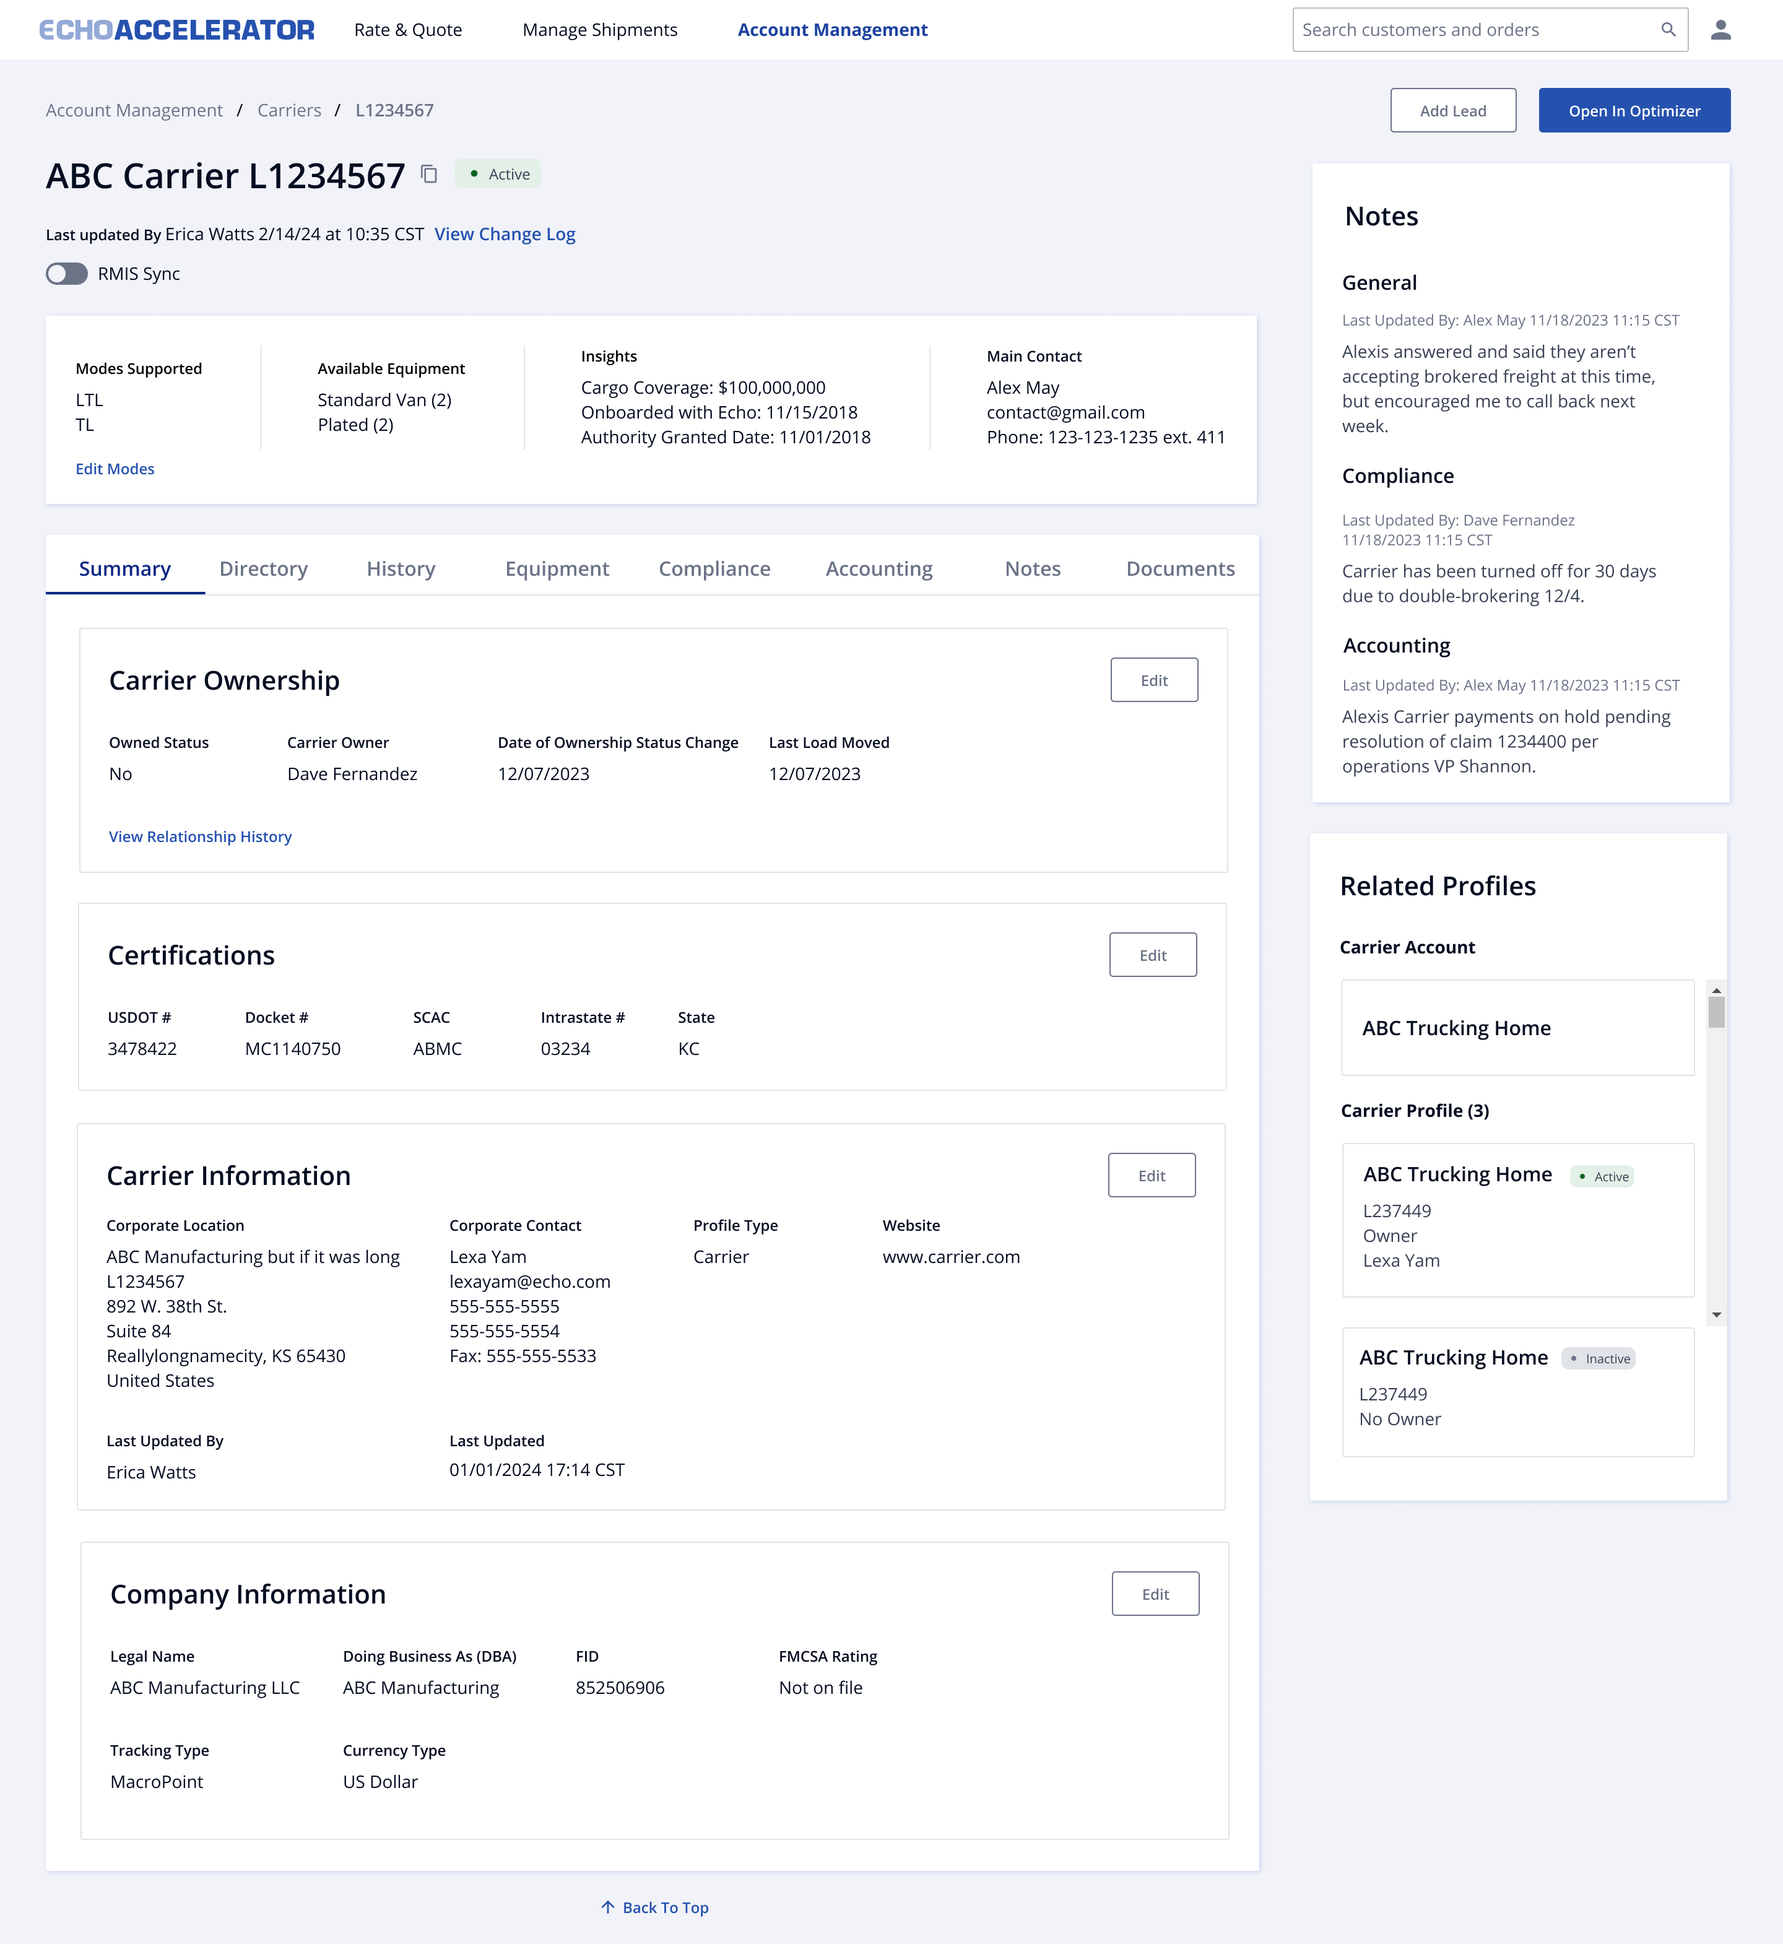
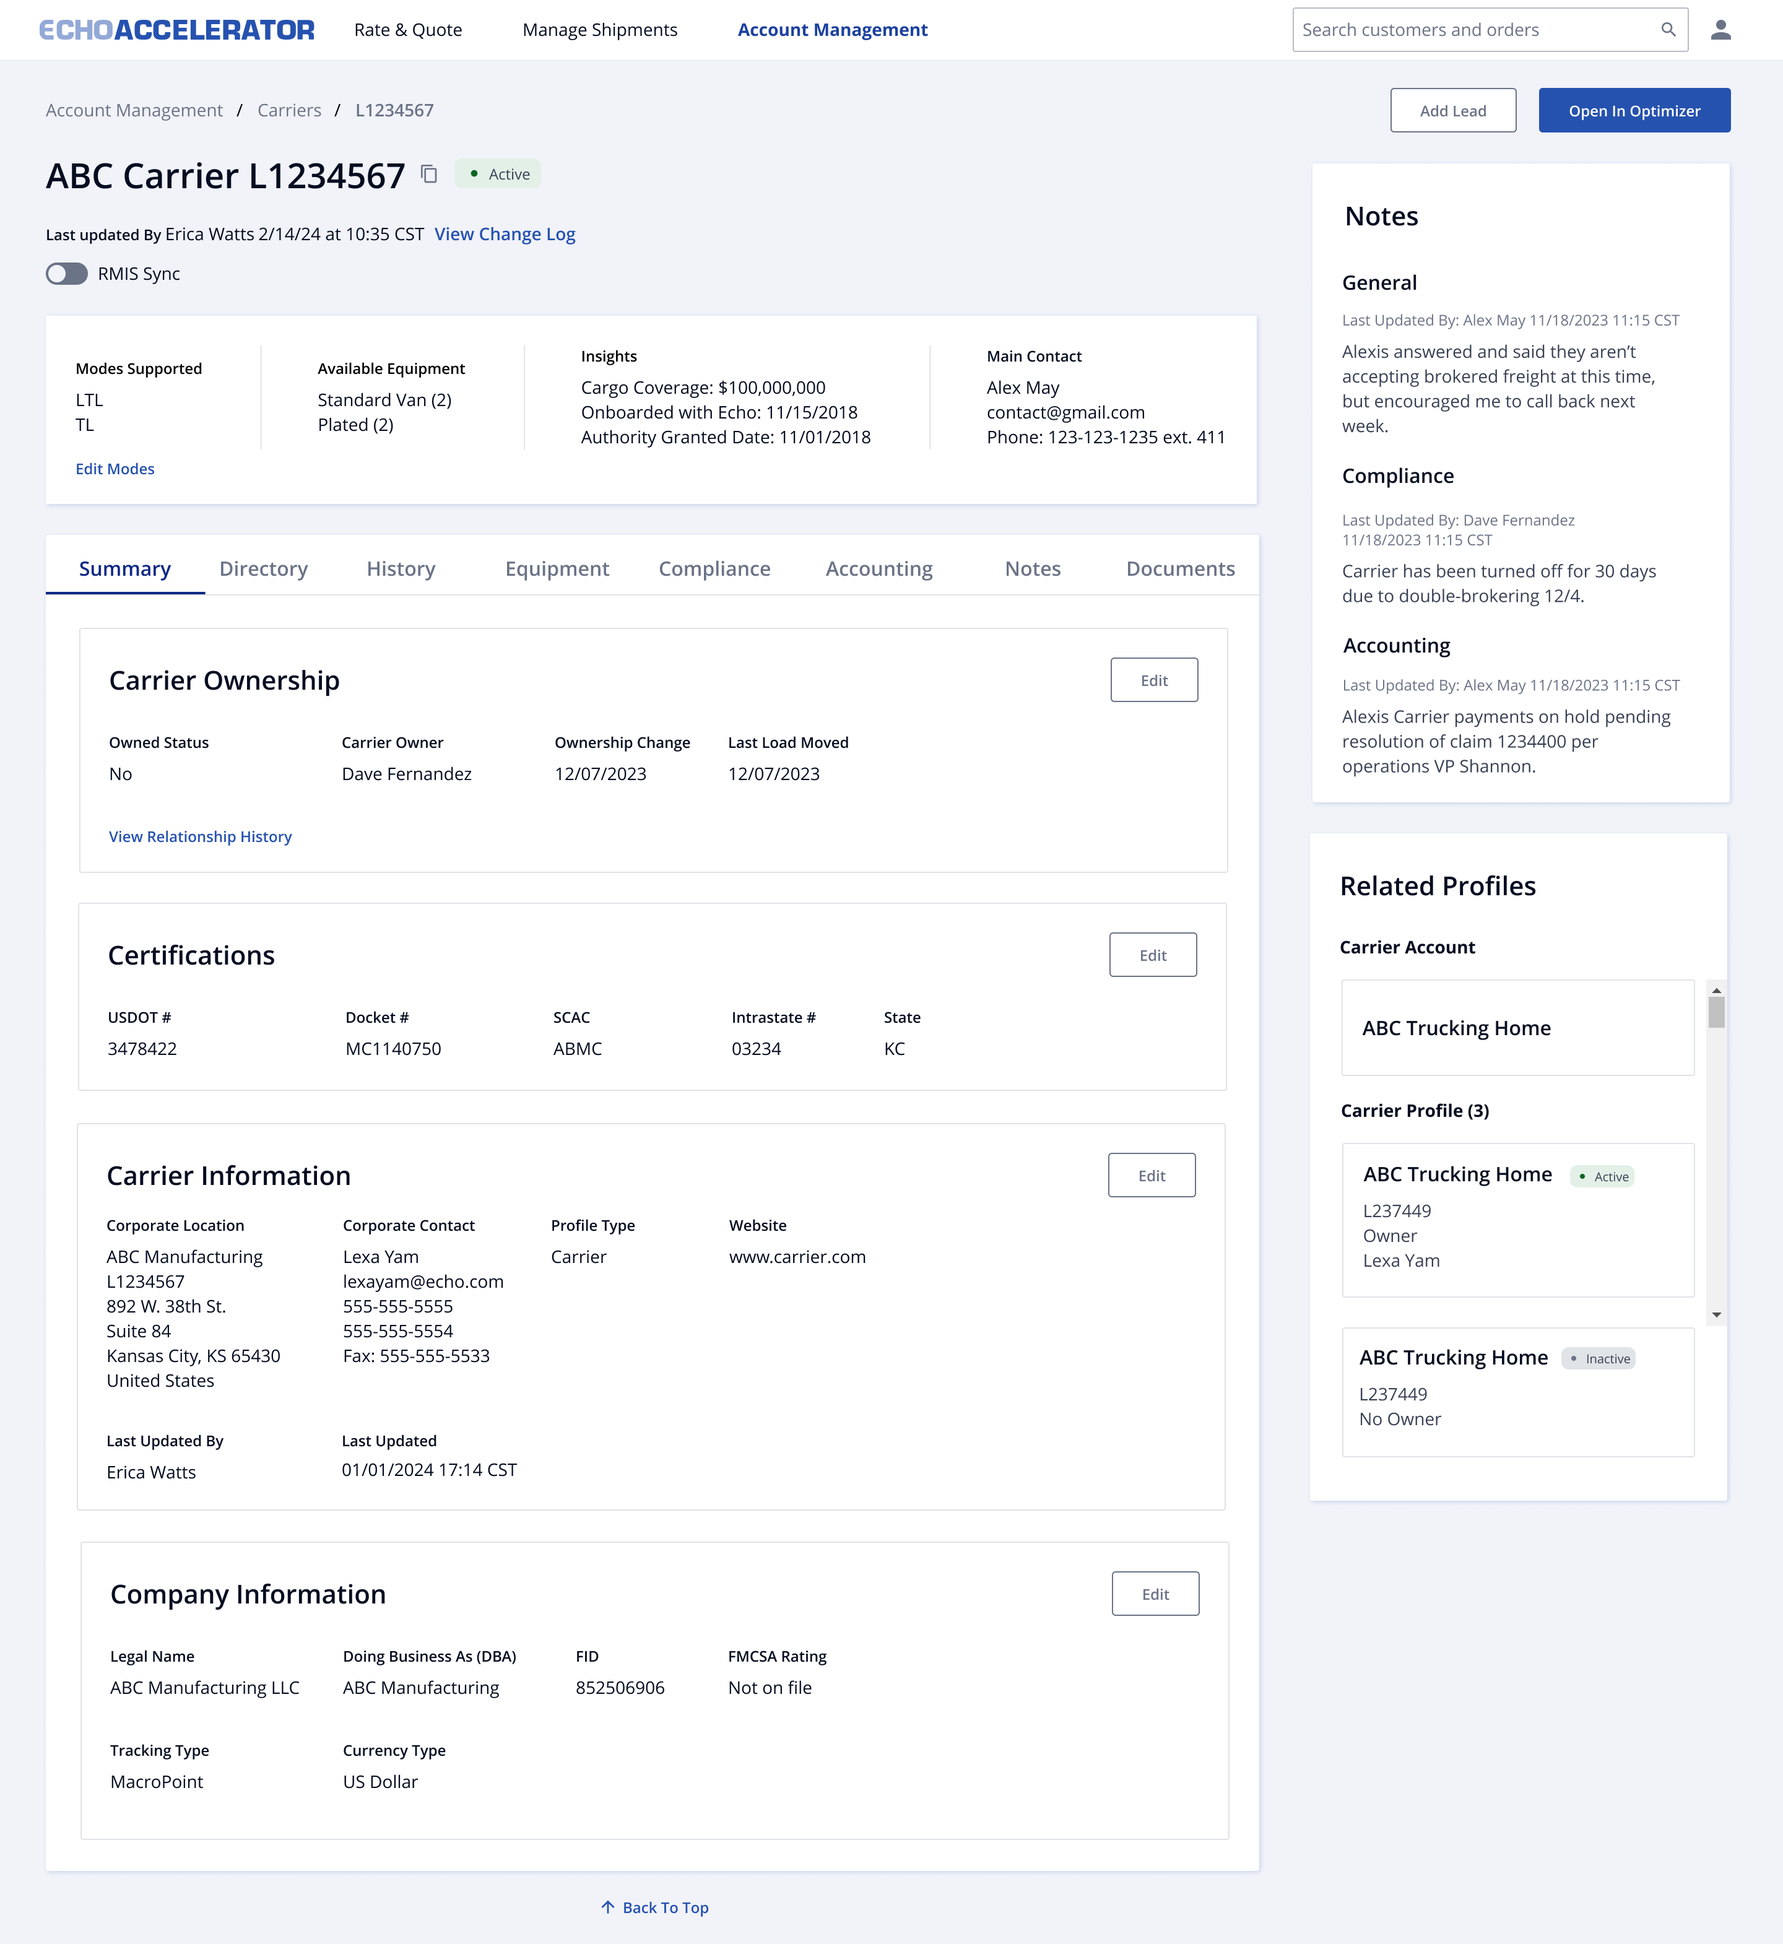
Refine Echo Profile card: restore nav, fix alignment, simplify content
- Restore the ECHOACCELERATOR nav bar with its own white background and
  elevation so it reads as chrome above the grey page, not the same
  surface as the white cards (a fade-to-transparent effect borrowed from
  the tabs row was making the white bar visibly fade into the background).
- Let the card size itself to its actual content instead of a fixed pixel
  height: both tab panels stack in the same grid cell, sized to the
  taller one, and anything past the frame's own height is cropped by its
  existing overflow:hidden rather than force-fit with hand-tuned padding.
- Fix field-value alignment: a field whose label wraps to 2 lines no
  longer drops its value below the rest of the row, and grid columns now
  size to their own content with a fixed gap instead of splitting the
  row into equal shares (which left uneven-looking gaps between short
  and long fields).
- Simplify Compliance and Summary tab content to what fits cleanly:
  drop Carrier Status's second row, Insurance's dollar limits, and
  Certifications' State field; rename the ownership-date field to match
  the current design ("Ownership Change").
- Update Compliance Management.png and Summary Dashboard.png reference
  screenshots.

diff --git a/index.html b/index.html
@@ -959,6 +959,12 @@
                     <div class="chapter-media">
                         <div class="chapter-media-inner" role="img" aria-label="Echo Global Logistics Project">
                             <div class="carrier-app">
+                                <div class="app-topbar">
+                                    <span class="brand">ECHO<span>ACCELERATOR</span></span>
+                                    <span>Rate &amp; Quote</span>
+                                    <span>Manage Shipments</span>
+                                    <span class="active-link">Account Management</span>
+                                </div>
                                 <div class="app-breadcrumb">Account Management / Carriers / L1234567</div>
                                 <div class="app-title-row">
                                     <h4>ABC Carrier L1234567</h4>
@@ -977,34 +983,41 @@
                                 </div>
                                 <div class="app-card">
                                     <div class="app-card-panel summary visible">
-                                        <h5>Carrier Ownership</h5>
-                                        <div class="app-field-grid">
-                                            <div class="app-field"><label>Owned Status</label><div>No</div></div>
-                                            <div class="app-field"><label>Carrier Owner</label><div>Dave Fernandez</div></div>
-                                            <div class="app-field"><label>Status Change</label><div>12/07/2023</div></div>
-                                            <div class="app-field"><label>Last Load Moved</label><div>12/07/2023</div></div>
-                                            <div class="app-field"><label>Modes Supported</label><div>LTL, TL</div></div>
-                                            <div class="app-field"><label>Equipment</label><div>Standard Van (2)</div></div>
+                                        <div class="field-card">
+                                            <h5>Carrier Ownership</h5>
+                                            <div class="app-field-grid four">
+                                                <div class="app-field"><label>Owned Status</label><div>No</div></div>
+                                                <div class="app-field"><label>Carrier Owner</label><div>Dave Fernandez</div></div>
+                                                <div class="app-field"><label>Ownership Change</label><div>12/07/2023</div></div>
+                                                <div class="app-field"><label>Last Load Moved</label><div>12/07/2023</div></div>
+                                            </div>
+                                        </div>
+                                        <div class="field-card">
+                                            <h5>Certifications</h5>
+                                            <div class="app-field-grid four">
+                                                <div class="app-field"><label>USDOT #</label><div>3478422</div></div>
+                                                <div class="app-field"><label>Docket #</label><div>MC1140750</div></div>
+                                                <div class="app-field"><label>SCAC</label><div>ABMC</div></div>
+                                                <div class="app-field"><label>Intrastate #</label><div>03234</div></div>
+                                            </div>
                                         </div>
                                     </div>
                                     <div class="app-card-panel compliance">
-                                        <h5>Carrier Status</h5>
-                                        <div class="app-field-grid three">
-                                            <div class="app-field"><label>Compliance Status</label><div>Active</div></div>
-                                            <div class="app-field"><label>Status Last Change</label><div>11/21/2023</div></div>
-                                            <div class="app-field"><label>Last Update By</label><div>Erica Watts</div></div>
-                                            <div class="app-field"><label>Opt Out of Rules</label><div>Yes</div></div>
-                                            <div class="app-field"><label>Hazmat</label><div>Approved: Yes</div></div>
-                                            <div class="app-field"><label>Targeted Commodity</label><div>Yes</div></div>
+                                        <div class="field-card">
+                                            <h5>Carrier Status</h5>
+                                            <div class="app-field-grid three">
+                                                <div class="app-field"><label>Compliance Status</label><div>Active</div></div>
+                                                <div class="app-field"><label>Status Last Change</label><div>11/21/2023</div></div>
+                                                <div class="app-field"><label>Last Update By</label><div>Erica Watts</div></div>
+                                            </div>
                                         </div>
-                                        <h5 class="second">Insurance</h5>
-                                        <div class="app-field-grid three">
-                                            <div class="app-field"><label>Auto</label><div>Active</div></div>
-                                            <div class="app-field"><label>Liability</label><div>Active</div></div>
-                                            <div class="app-field"><label>Cargo</label><div>Active</div></div>
-                                            <div class="app-field"><label>Auto Limit</label><div>$250,000,000</div></div>
-                                            <div class="app-field"><label>Liability Limit</label><div>$250,000,000</div></div>
-                                            <div class="app-field"><label>Cargo Limit</label><div>$250,000,000</div></div>
+                                        <div class="field-card">
+                                            <h5>Insurance</h5>
+                                            <div class="app-field-grid three">
+                                                <div class="app-field"><label>Auto</label><div>Active</div></div>
+                                                <div class="app-field"><label>Liability</label><div>Active</div></div>
+                                                <div class="app-field"><label>Cargo</label><div>Active</div></div>
+                                            </div>
                                         </div>
                                     </div>
                                 </div>

diff --git a/css/live-thumbnails.css b/css/live-thumbnails.css
@@ -147,6 +147,7 @@
     aspect-ratio: auto;
     background: #ffffff;
     display: block;
+    container: tabslide / inline-size;
 }
 
 .carrier-app {
@@ -154,8 +155,38 @@
     background: #ffffff;
 }
 
+.app-topbar {
+    display: flex;
+    align-items: center;
+    gap: 18px;
+    padding: 7px 14px;
+    background: #ffffff;
+    border-bottom: 1px solid #e3e7ec;
+    /* elevation so the white bar reads as chrome above the page, not the same surface as the white cards below it */
+    box-shadow: 0 2px 5px rgba(15, 23, 42, 0.1);
+    font-size: 11px;
+    font-weight: 700;
+    color: #b7bcc4;
+    /* hard clip, not a fade: a fade on a solid white bar just fades white into the grey page behind it */
+    overflow: hidden;
+}
+
+.app-topbar span {
+    white-space: nowrap;
+    flex: 0 0 auto;
+}
+
+.app-topbar .brand {
+    color: #1a1a1a;
+    font-weight: 800;
+    margin-right: 4px;
+}
+
+.app-topbar .brand span { color: #2f6fed; }
+.app-topbar .active-link { color: #2f6fed; }
+
 .app-breadcrumb {
-    padding: 16px 14px 0;
+    padding: 10px 14px 6px;
     font-size: 10px;
     color: #9aa1a8;
 }
@@ -164,7 +195,7 @@
     display: flex;
     align-items: center;
     gap: 8px;
-    padding: 4px 14px 12px;
+    padding: 0 14px 6px;
 }
 
 .app-title-row h4 {
@@ -216,7 +247,7 @@
     font-size: 12px;
     font-weight: 600;
     color: #9aa1a8;
-    padding: 10px 0;
+    padding: 7px 0;
     transition: color 0.4s ease;
     white-space: nowrap;
 }
@@ -235,24 +266,33 @@
     transition: transform 0.5s cubic-bezier(0.2, 0.8, 0.2, 1), width 0.5s cubic-bezier(0.2, 0.8, 0.2, 1);
 }
 
+/* The card's height comes from its content, not a hand-picked pixel value: both panels stack
+   in the same grid cell (sized to the taller one), so the card is never force-fit or stretched.
+   Anything past the frame's own fixed height is cropped by chapter-media-inner's overflow:hidden
+   below, a clean "peek" of the next card rather than a cramped layout that fits everything. */
 .app-card {
     margin: 14px;
-    border: 1px solid #eef0f2;
-    border-radius: 8px;
-    padding: 16px;
-    position: relative;
-    height: 275px;
+    display: grid;
 }
 
 .app-card-panel {
-    position: absolute;
-    inset: 14px;
+    grid-area: 1 / 1;
+    display: flex;
+    flex-direction: column;
+    gap: 16px;
     opacity: 0;
     transition: opacity 0.4s ease;
 }
 
 .app-card-panel.visible {
     opacity: 1;
+}
+
+.field-card {
+    background: #ffffff;
+    border: 1px solid #eef0f2;
+    border-radius: 8px;
+    padding: 16px 18px;
 }
 
 .app-card-panel h5 {
@@ -262,14 +302,29 @@
     margin: 0 0 12px;
 }
 
+/* Columns size to their own content instead of splitting the row into equal shares. Equal
+   columns left uneven-looking gaps: a short value like "SCAC" stranded a lot of empty column
+   space before the next field, while a long one like "Intrastate #" left almost none, even
+   though the columns themselves were uniform. A fixed gap between content-sized columns reads
+   as evenly spaced regardless of how long each field's own label or value happens to be. */
 .app-field-grid {
     display: grid;
-    grid-template-columns: 1fr 1fr;
-    gap: 12px 20px;
+    grid-template-columns: repeat(2, auto);
+    gap: 14px 28px;
 }
 
-.app-card-panel h5.second { margin-top: 14px; }
-.app-field-grid.three { grid-template-columns: 1fr 1fr 1fr; }
+.app-field-grid.three { grid-template-columns: repeat(3, auto); }
+.app-field-grid.four { grid-template-columns: repeat(4, auto); gap: 12px 24px; }
+.app-field-grid.five { grid-template-columns: repeat(5, auto); gap: 12px 20px; }
+
+/* A grid cell stretches to the height of its row's tallest label (CSS Grid's default), so when
+   one field's label wraps to 2 lines, every field in that row grows to match. Anchoring the
+   value to the bottom of its own cell keeps all the values on one line across the row, whatever
+   wraps and at whatever card width, instead of hardcoding which labels are "long enough" to wrap. */
+.app-field {
+    display: flex;
+    flex-direction: column;
+}
 
 .app-field label {
     display: block;
@@ -279,9 +334,19 @@
 }
 
 .app-field div {
+    margin-top: auto;
     font-size: 12px;
     color: #1a1a1a;
     font-weight: 500;
+}
+
+/* Below this card width, more labels wrap to 2 lines (adding row height), so the roomier
+   padding/gaps above would push Certifications past the fixed card height. Tighten them back
+   up here rather than removing the breathing room everywhere. */
+@container tabslide (max-width: 420px) {
+    .field-card { padding: 12px 14px; }
+    .app-card-panel { gap: 10px; }
+    .app-field-grid { gap: 10px 14px; }
 }
 
 
@@ -527,7 +592,7 @@
 /* Echo Profile sits on a white section, so give the app a light grey ground like the real screenshot */
 .tabslide-demo .chapter-media-inner { background: #f1f2f7; }
 .tabslide-demo .carrier-app { background: transparent; }
-.tabslide-demo .app-card { background: #ffffff; }
+/* app-card is now just a positioning container; the light grey chapter background shows between the field-cards, like the real page */
 /* c2's media mat has a 1px border each side, so trim 2px to keep all three sections the same height */
 .tabslide-demo .chapter-media-inner { height: calc(var(--demo-h) - 2px); }
 
